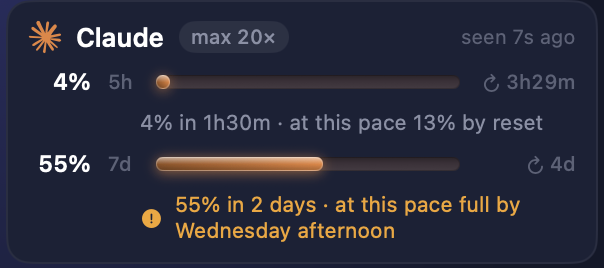
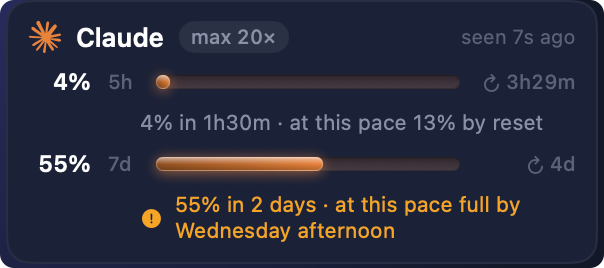
art: cut the pace capture's corners, which were square and opaque
The card in this capture is rounded and the picture around it was not. Measured
on the committed asset: it is the card plus about twelve pixels of the panel's
own background, that surround is SQUARE, and every pixel of it is opaque -- the
top row reads #1E2244 uniformly from x=0 to x=19 with alpha 255 against the
card's #1B2137, and the card's own stroke first appears at (12,12).

On a light page those four corners are what the eye reads, so the artifact looks
like a rectangle of a product that does not draw rectangles. And the second half
costs more than the first: `.shot` in HeroStage.module.css carries the page's
one drop-shadow, its comment says in as many words that `drop-shadow` follows
the PNG's alpha, and a fully opaque rectangle therefore casts a RECTANGULAR
shadow around a rounded object. Cutting the corners fixes the silhouette and
the shadow in the same edit; no CSS changes.

604x268 is preserved deliberately. The hero draws its frames in one box, so a
replacement at another size is drawn at another scale and the reader watches the
artifact resize as they scroll -- reported twice already.

scripts/roundcorners.swift is the tool, beside deshadow.swift, for the reason
that file's own header gives: a technique left as "recreate it when you need it"
is not recreated. It offers `profile` rather than a radius-detector on purpose.
The first version walked the top row for the first pixel matching the card
[…]

diff --git a/scripts/roundcorners.swift b/scripts/roundcorners.swift
@@ -1,0 +1,101 @@
+import Foundation
+import CoreGraphics
+import ImageIO
+import UniformTypeIdentifiers
+
+// Cut a capture's corners to TRANSPARENCY, and read the pixels that decide the
+// radius. Sibling of `deshadow.swift`: that one strips a shadow baked into a
+// capture, this one strips the square corner baked into one.
+//
+// Why it exists. `screenshot-pace.png` is the panel's card plus about twelve
+// pixels of the panel's own background, and that surround is SQUARE and fully
+// opaque -- measured 2026-09-21, the top row reads #1E2244 uniformly from x=0
+// to x=19 with alpha 255, against the card's #1B2137, and the card's own stroke
+// appears at (12,12). So the card inside is rounded and the picture is not, and
+// on a light page the four square corners are what the eye reads. Worse, the
+// page's `drop-shadow` follows the PNG's alpha (see HeroStage.module.css), so a
+// fully opaque rectangle casts a RECTANGULAR shadow around a rounded object.
+// Cutting the corners fixes the shape and the shadow in one edit.
+//
+//   roundcorners profile <png>              -- the corner pixels, to read by eye
+//   roundcorners cut <png> <radius> <out>   -- write the alpha-cut copy
+//
+// Use `profile` and decide; do NOT ask a script for "the radius". The first
+// version of this tool did, by walking the top row for the first pixel matching
+// the card colour -- and it answered 0 both when the match was at x=0 and when
+// there was no match at all, which is the same number for "found immediately"
+// and "found nothing". It reported 0 on an image whose surround is twelve
+// pixels deep. A measurement that cannot fail is not a measurement.
+//
+// The canvas SIZE is preserved on purpose. The hero draws its frames in one
+// box, so a replacement at a different size is drawn at a different scale and
+// the reader watches the artifact change size as they scroll -- reported twice
+// (see CLAUDE.md, "The four window panes are ONE SET").
+
+func load(_ path: String) -> CGImage? {
+    guard let src = CGImageSourceCreateWithURL(URL(fileURLWithPath: path) as CFURL, nil)
+    else { return nil }
+    return CGImageSourceCreateImageAtIndex(src, 0, nil)
+}
+
+let args = CommandLine.arguments
+guard args.count >= 3, let img = load(args[2]) else {
+    FileHandle.standardError.write(
+        "usage: roundcorners profile <png> | cut <png> <radius> <out>\n".data(using: .utf8)!)
+    exit(2)
+}
+let w = img.width, h = img.height
+
+switch args[1] {
+case "profile":
+    var buf = [UInt8](repeating: 0, count: w * h * 4)
+    let ctx = CGContext(data: &buf, width: w, height: h, bitsPerComponent: 8,
+                        bytesPerRow: w * 4, space: CGColorSpaceCreateDeviceRGB(),
+                        bitmapInfo: CGImageAlphaInfo.premultipliedLast.rawValue)!
+    // Flip, so row 0 is the TOP row -- the way anyone looking at the picture
+    // counts. CoreGraphics' origin is bottom-left and reading a corner profile
+    // upside down is a silent way to measure the wrong corner.
+    ctx.translateBy(x: 0, y: CGFloat(h))
+    ctx.scaleBy(x: 1, y: -1)
+    ctx.draw(img, in: CGRect(x: 0, y: 0, width: w, height: h))
+    func hex(_ x: Int, _ y: Int) -> String {
+        let i = (y * w + x) * 4
+        return String(format: "#%02X%02X%02X a=%d", buf[i], buf[i + 1], buf[i + 2], buf[i + 3])
+    }
+    print("image \(w)x\(h)   centre \(hex(w / 2, h / 2))")
+    print("\ntop row, x = 0…19:")
+    for x in 0..<min(20, w) { print("  x=\(x)\t\(hex(x, 0))") }
+    print("\nleft column, y = 0…19:")
+    for y in 0..<min(20, h) { print("  y=\(y)\t\(hex(0, y))") }
+    print("\ndiagonal in from the top-left corner:")
+    for d in 0..<min(16, w, h) { print("  (\(d),\(d))\t\(hex(d, d))") }
+
+case "cut":
+    guard args.count >= 5, let radius = Double(args[3]) else {
+        FileHandle.standardError.write("usage: roundcorners cut <png> <radius> <out>\n".data(using: .utf8)!)
+        exit(2)
+    }
+    let out = args[4]
+    let ctx = CGContext(data: nil, width: w, height: h, bitsPerComponent: 8,
+                        bytesPerRow: 0, space: CGColorSpaceCreateDeviceRGB(),
+                        bitmapInfo: CGImageAlphaInfo.premultipliedLast.rawValue)!
+    ctx.clear(CGRect(x: 0, y: 0, width: w, height: h))
+    // Clip, then draw. The corners keep nothing at all, and the curve is
+    // antialiased by CoreGraphics rather than by a threshold of my own -- a
+    // hand-rolled cutoff is what leaves a stair-stepped rim on a dark object.
+    ctx.addPath(CGPath(roundedRect: CGRect(x: 0, y: 0, width: w, height: h),
+                       cornerWidth: radius, cornerHeight: radius, transform: nil))
+    ctx.clip()
+    ctx.draw(img, in: CGRect(x: 0, y: 0, width: w, height: h))
+    guard let result = ctx.makeImage(),
+          let dst = CGImageDestinationCreateWithURL(
+              URL(fileURLWithPath: out) as CFURL, UTType.png.identifier as CFString, 1, nil)
+    else { exit(1) }
+    CGImageDestinationAddImage(dst, result, nil)
+    guard CGImageDestinationFinalize(dst) else { exit(1) }
+    print("wrote \(out) — \(w)x\(h) preserved, corners cut at \(radius)px")
+
+default:
+    FileHandle.standardError.write("unknown verb \(args[1])\n".data(using: .utf8)!)
+    exit(2)
+}
